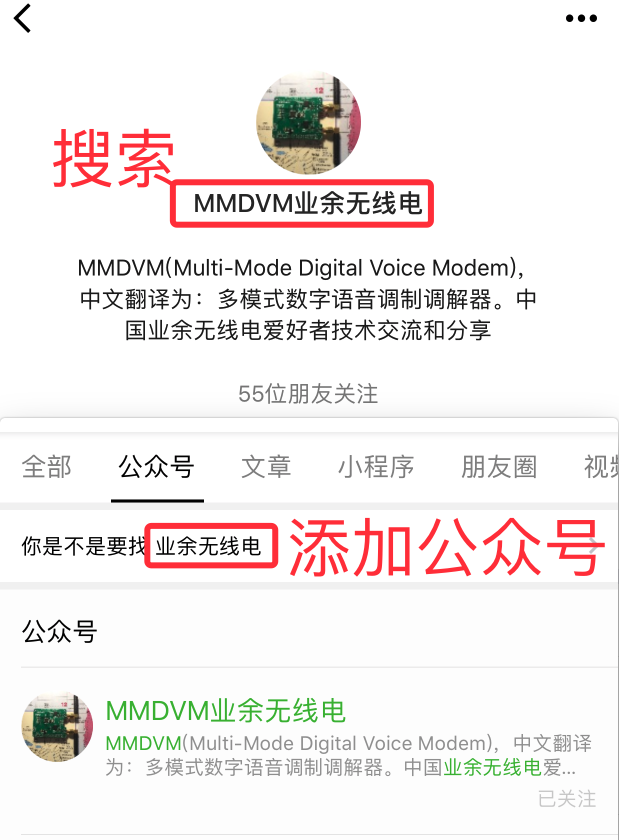
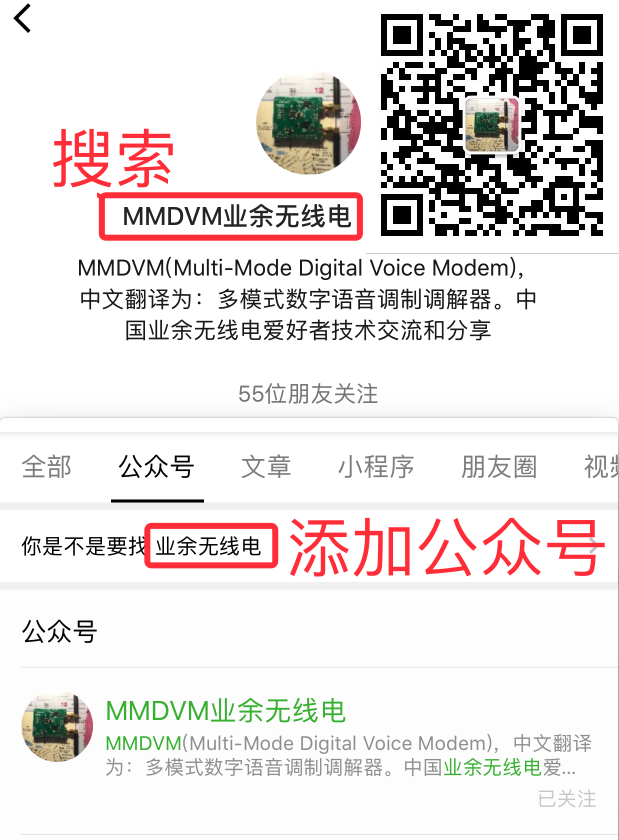
modify

Changed region(s): [[0.1535, 0.0, 0.9822, 0.3095]]

diff --git a/_posts/mmdvm/2017-10-30-mmdvm_buy_from_jTA.md b/_posts/mmdvm/2017-10-30-mmdvm_buy_from_jTA.md
@@ -20,8 +20,7 @@ image:
  
 ## 微信公众号
 不定期推送MMDVM国内外相关动态，台网，技术交流等。从公众号菜单可以进入MMDVM.io中文站点，申请DMRid      
-![图片装载中](/images/mmdvm/wechat_qrcode.png) ![图片装载中](/images/mmdvm/buy_fromJTA_Wechat.png)      
-
+![图片装载中](/images/mmdvm/buy_fromJTA_Wechat.png) 
  
 ## 成品介绍 
 
